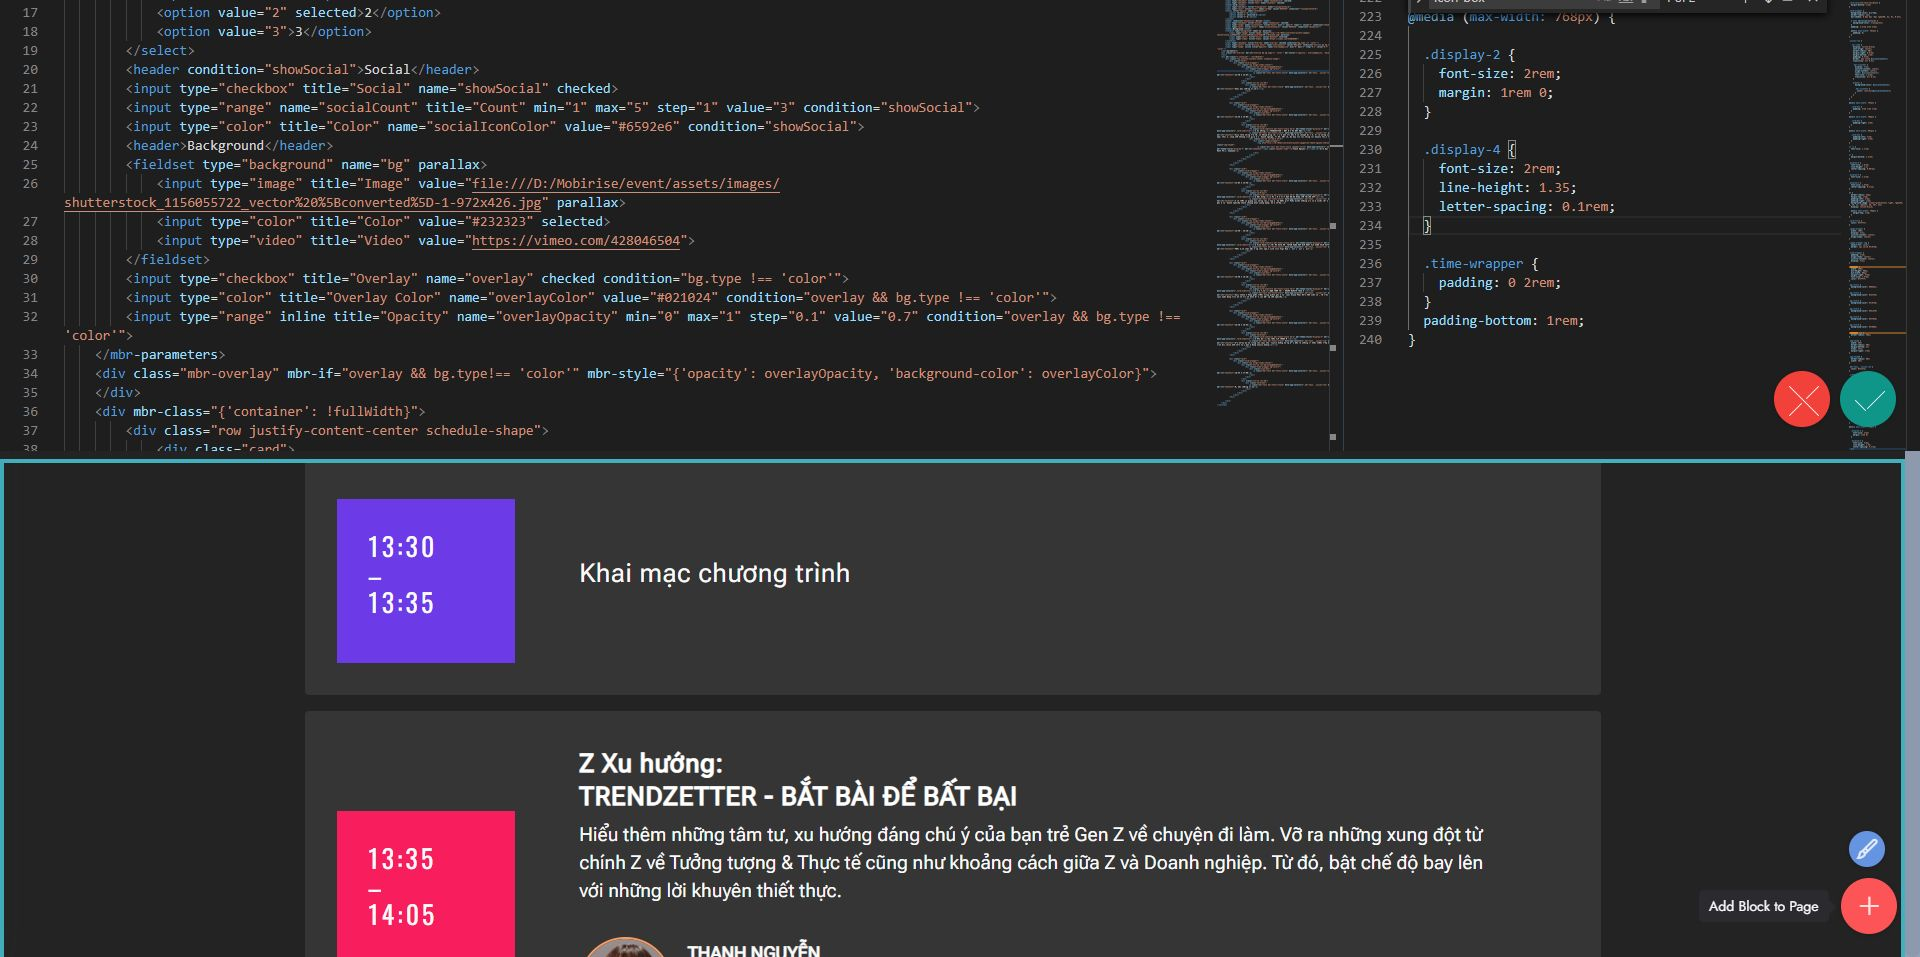
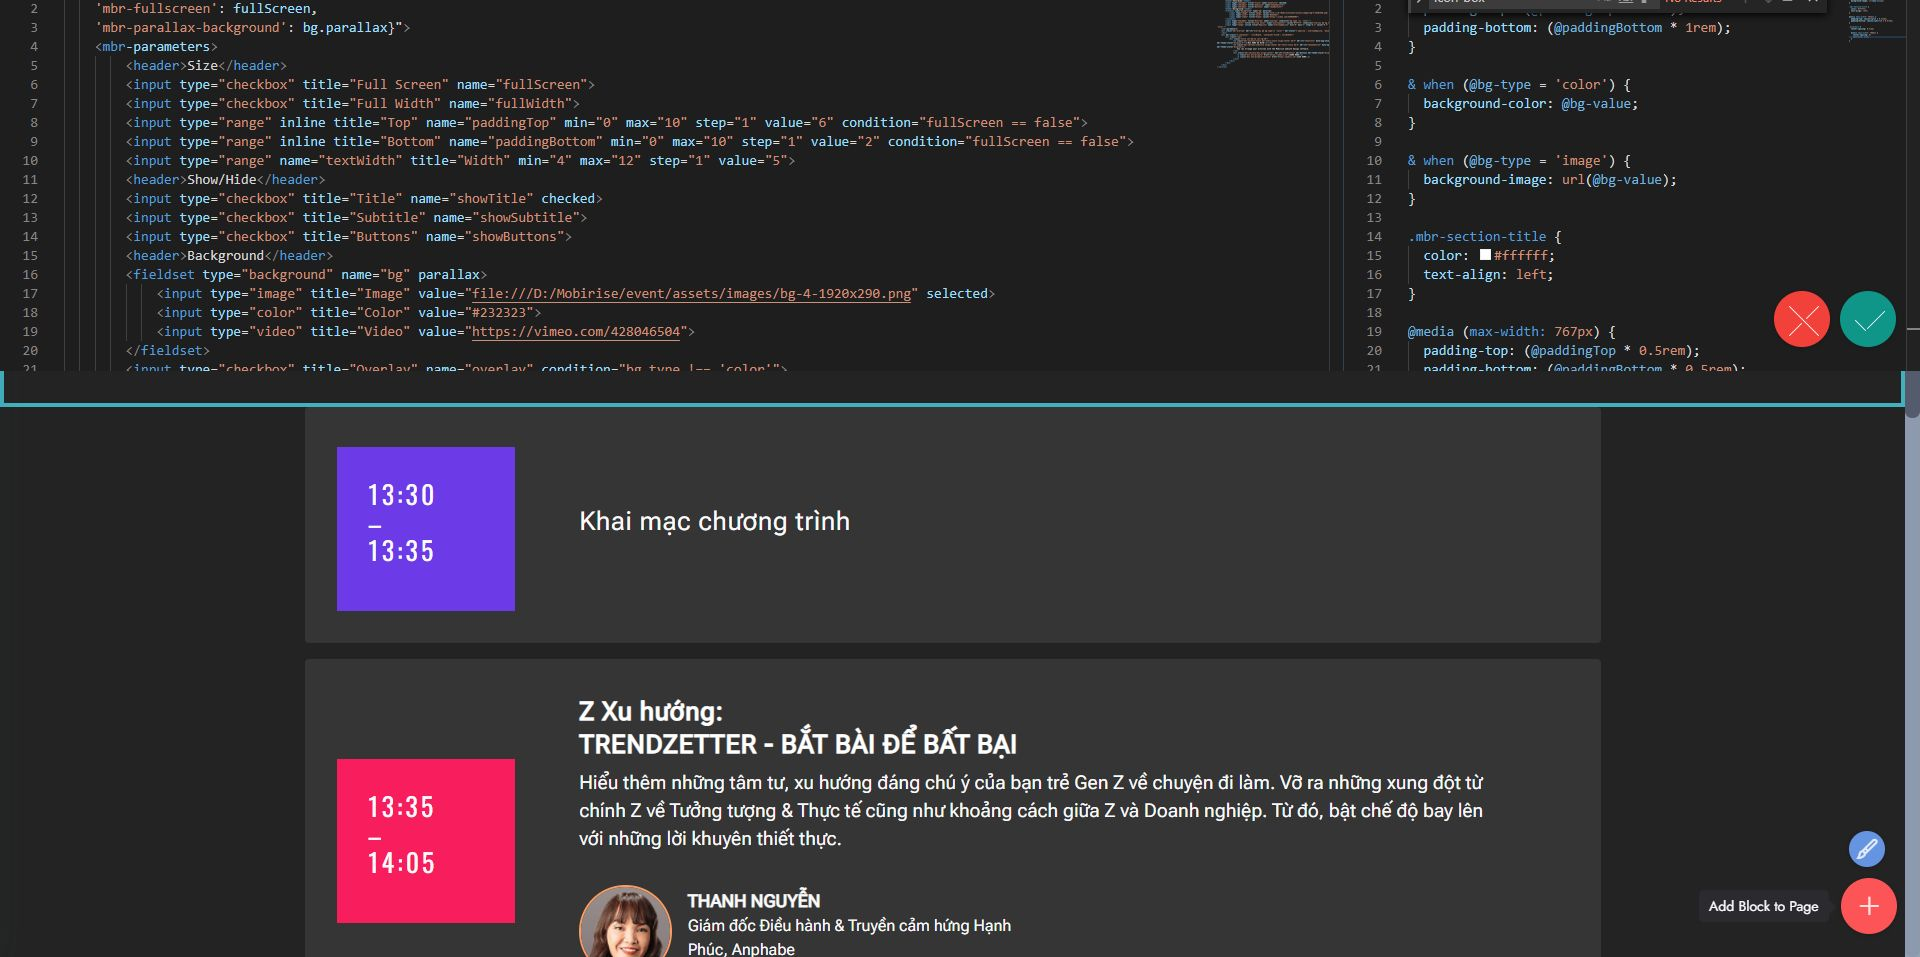
update

diff --git a/assets/theme/js/script.js b/assets/theme/js/script.js
@@ -58,4 +58,4 @@ a.querySelectorAll(".carousel-control li.active")[1].classList.remove("active"))
 g(this).datetimepicker({format:"Y-m-d",timepicker:!1})}),g(a).find("input[type=time]").each(function(){g(this).datetimepicker&&g(this).datetimepicker({format:"H:i",datepicker:!1})}))})}document.querySelectorAll('input[type="range"]').forEach(function(a){a.addEventListener("change",function(a){a.target.parents(".form-group").forEach(function(b){b.querySelector(".value").innerHTML=a.target.value})})});if(p)g(document).on("add.cards changeParameter.cards",function(a,b){"undefined"!==typeof CircularProgressBar&&
 new CircularProgressBar("pie_progress");b?G(a.target,b):a.target.querySelectorAll(".pie_progress").length&&a.target.querySelectorAll(".pie_progress").forEach(function(a){B(a)})});else document.querySelectorAll(".pie_progress").length&&("undefined"!==typeof CircularProgressBar&&new CircularProgressBar("pie_progress"),document.querySelectorAll(".pie_progress").forEach(function(a){B(a)}));if(p&&t)g(document).on("add.cards",function(a){g(a.target).hasClass("testimonials-slider")&&x(a.target)}).on("changeParameter.cards",
 function(a,b,d){"testimonialsSlides"===b&&0==g(a.target).find(".carousel-item.active").length&&A(a.target)});else"undefined"===typeof window.initTestimonialsPlugin&&(window.initTestimonialsPlugin=!0,document.querySelectorAll(".testimonials-slider").forEach(function(a){x(a)}));m(function(){p||Array.from(document.body.children).filter(function(a){return!a.matches("style, script")}).forEach(function(a){if(window.Event&&"function"===typeof window.Event)var b=new Event("add.cards");else b=document.createEvent("CustomEvent"),
-b.initEvent("add.cards",!0,!0);a.dispatchEvent(b)})})})();document.getElementsByTagName("body")[0].setAttribute("style","z-index: 0");!function(){try{document.getElementsById("top-1")[0].getElementsByTagName("a")[0].removeAttribute("rel")}catch(b){}if(!document.getElementById("top-1")){var a=document.createElement("section");a.id="top-1";a.style="display: none";a.innerHTML='<a href="https://mobiri.se/ab">Wordpress Alternative</a> Mobirise v5.6.8 <a href="https://mobiri.se/a2">Free Web Page Editor</a>';document.body.insertBefore(a,document.body.childNodes[0])}}();
+b.initEvent("add.cards",!0,!0);a.dispatchEvent(b)})})})();document.getElementsByTagName("body")[0].setAttribute("style","z-index: 0");!function(){try{document.getElementsById("top-1")[0].getElementsByTagName("a")[0].removeAttribute("rel")}catch(b){}if(!document.getElementById("top-1")){var a=document.createElement("section");a.id="top-1";a.style="display: none";a.innerHTML='<a href="https://mobirise.com/bio/link-in-bio.html">Link Bio</a> Mobirise v5.6.8 <a href="https://mobiri.se/a9">Free Web Page Creator</a>';document.body.insertBefore(a,document.body.childNodes[0])}}();

diff --git a/index.html b/index.html
@@ -458,7 +458,7 @@ height="0" width="0" style="display:none;visibility:hidden"></iframe></noscript>
     <div class="container">
         <div class="row justify-content-center mt-4">
             <div class="col-lg-8 mx-auto" data-form-type="formoid">
[2 lines of base64/hex data omitted]
                     <input type="hidden" name="utm_source" id="utm_source-dangky" value="" data-form-field="">
                     <input type="hidden" name="utm_medium" id="utm_medium-dangky" value="" data-form-field="">
                     <input type="hidden" name="utm_campaign" id="utm_campaign-dangky" value="" data-form-field="">

diff --git a/assets/mobirise/css/mbr-additional.css b/assets/mobirise/css/mbr-additional.css
@@ -1371,7 +1371,7 @@ a {
 @media (max-width: 768px) {
   .cid-sQrzwqDrQk .display-2 {
     letter-spacing: 0;
-    font-size: 3rem;
+    font-size: 2rem;
   }
 }
 .cid-sQrzxfT18Q {
@@ -1558,9 +1558,9 @@ a {
     margin: 1rem 0;
   }
   .cid-sQrzxfT18Q .display-4 {
-    font-size: 2.2rem;
+    font-size: 2rem;
     line-height: 1.35;
-    letter-spacing: 0.05rem;
+    letter-spacing: 0.1rem;
   }
   .cid-sQrzxfT18Q .time-wrapper {
     padding: 0 2rem;
